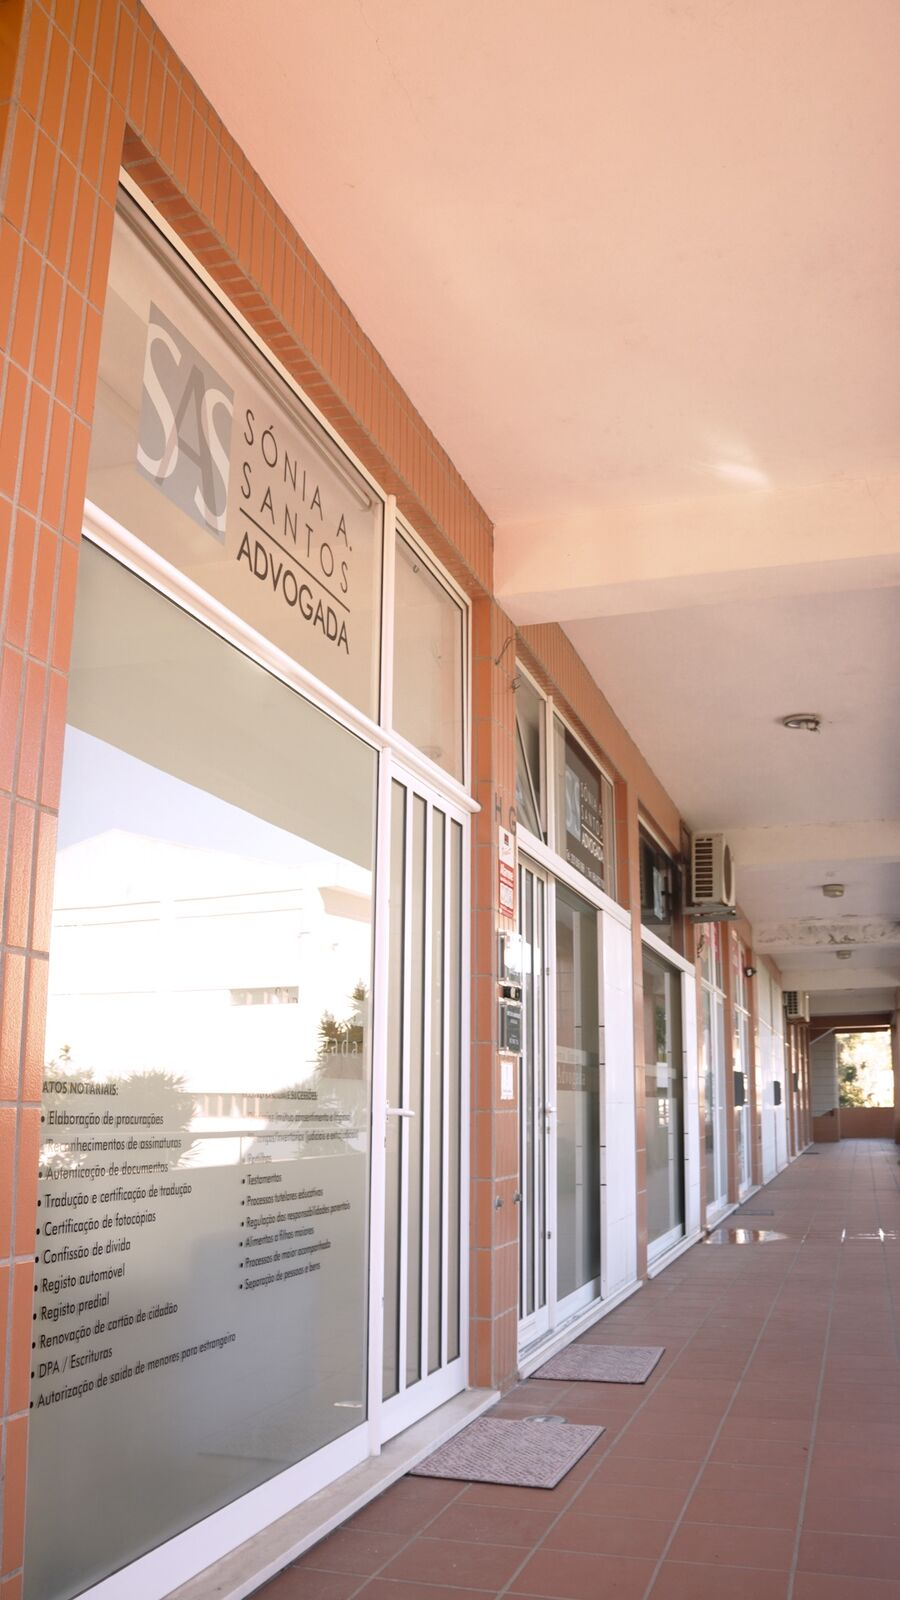
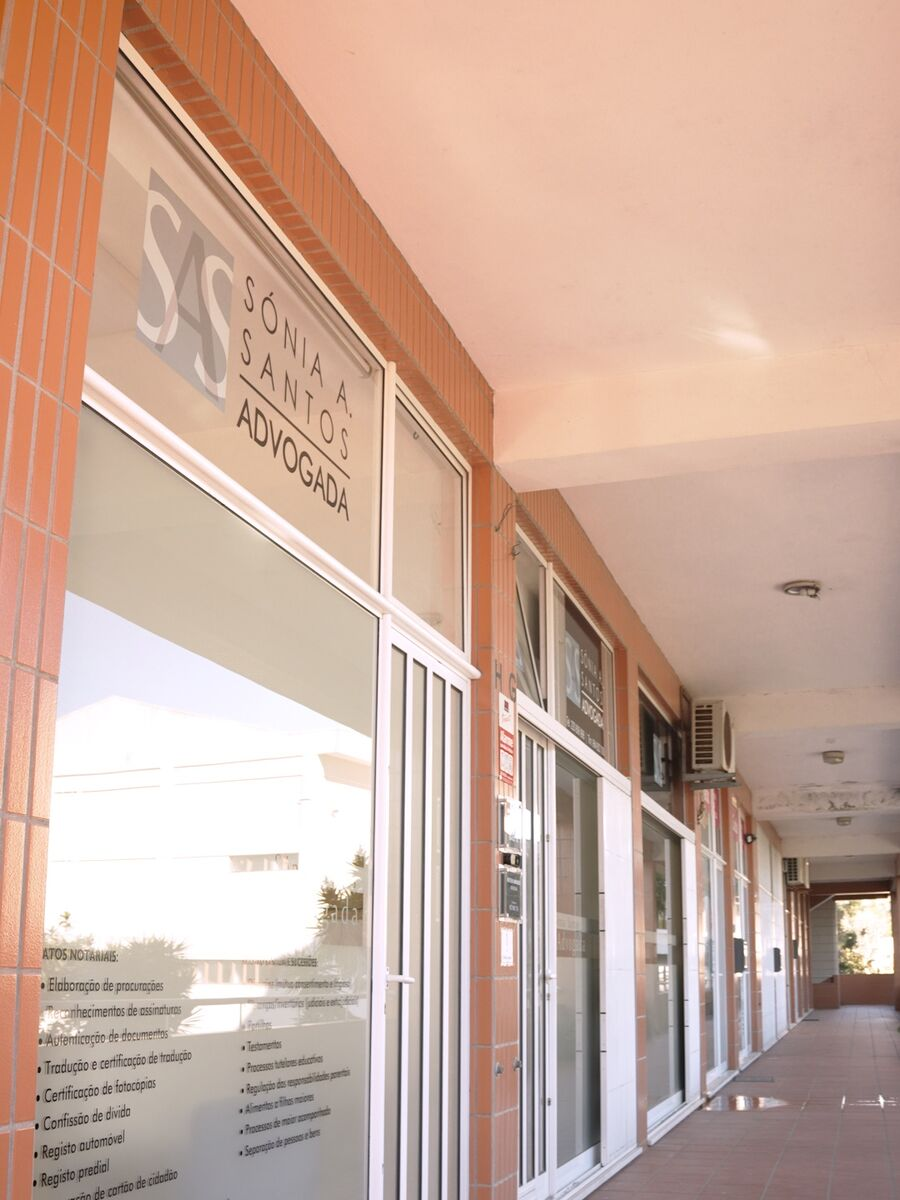
Galeria do escritório horizontal e dinâmica com novas fotos
- Computador: texto fixo e fotos a deslizar na horizontal com o scroll (GSAP pin)
- Telemóvel: carrossel com deslize e encaixe
- Fotos: fachada, gabinete e receção; legendas numeradas e botão 'Como chegar'

Claude-Session: https://claude.ai/code/session_01Ro4XVLwoq6dQxs5ZSBP7QT

diff --git a/styles.css b/styles.css
@@ -342,11 +342,39 @@ blockquote {
 .membro h3 { font-size: 1.25rem; margin: 0 0 2px; }
 .membro p { font-size: .7rem; letter-spacing: .2em; text-transform: uppercase; color: var(--suave); font-weight: 500; margin: 0; }
 
-/* Escritório */
-.galeria { display: grid; grid-template-columns: repeat(3, 1fr); gap: 18px; max-width: 960px; margin-inline: auto; }
-.galeria figure { margin: 0; overflow: hidden; border-radius: var(--raio); aspect-ratio: 4 / 5; max-width: 100%; }
-.galeria img { width: 100%; height: 108%; object-fit: cover; object-position: center 40%; transition: transform 1.2s var(--ease); }
-.galeria figure:hover img { transform: scale(1.05); }
+/* Escritório: texto fixo à esquerda, fotos a deslizar na horizontal */
+.escritorio { padding: 0; overflow: hidden; }
+.escritorio__pin { height: 100svh; min-height: 640px; display: flex; align-items: center; gap: clamp(30px, 4vw, 60px); }
+.galeria__intro { flex: none; width: min(360px, 32%); position: relative; z-index: 2; }
+.galeria__intro h2 { margin-bottom: .4em; }
+.galeria__local { font-size: .78rem; letter-spacing: .2em; text-transform: uppercase; color: var(--suave); margin-bottom: 1.6em; }
+.galeria__dica { display: flex; align-items: center; gap: 12px; margin-top: 34px; font-size: .7rem; letter-spacing: .22em; text-transform: uppercase; color: var(--acento); }
+.galeria__dica i { position: relative; width: 46px; height: 1px; background: var(--linha); overflow: hidden; }
+.galeria__dica i::after { content: ""; position: absolute; inset: 0; background: var(--acento); animation: dica 2s var(--ease) infinite; }
+@keyframes dica { from { transform: translateX(-100%); } to { transform: translateX(100%); } }
+.galeria__janela { flex: 1; min-width: 0; margin-right: calc(-1 * max(16px, (100vw - 1180px) / 2)); overflow: hidden;
+  -webkit-mask-image: linear-gradient(90deg, transparent 0, #000 60px); mask-image: linear-gradient(90deg, transparent 0, #000 60px); }
+.galeria__trilho { display: flex; align-items: center; gap: clamp(18px, 2.4vw, 32px); width: max-content; padding: 0 max(16px, calc((100vw - 1180px) / 2)) 0 60px; will-change: transform; }
+.g { position: relative; flex: none; margin: 0; height: min(70svh, 620px); overflow: hidden; border-radius: var(--raio); background: var(--fundo-2); }
+.g--alto { aspect-ratio: 3 / 4; }
+.g--largo { aspect-ratio: 5 / 4; }
+.g img { width: 100%; height: 100%; object-fit: cover; transform: scale(1.1); transition: transform 1.4s var(--ease); }
+.g:hover img { transform: scale(1.03); }
+.g::after { content: ""; position: absolute; inset: 0; background: linear-gradient(0deg, rgba(47, 37, 30, .62), transparent 38%); pointer-events: none; }
+.g figcaption { position: absolute; z-index: 1; left: 24px; right: 24px; bottom: 22px; display: flex; align-items: baseline; gap: 14px; color: #fff; }
+.g__num { font: 400 .8rem var(--sans); letter-spacing: .2em; color: var(--acento-claro); }
+.g figcaption b { font: 400 clamp(1.3rem, 2vw, 1.7rem) var(--serif); }
+@media (max-width: 960px) {
+  .escritorio { padding: 72px 0; }
+  .escritorio__pin { height: auto; min-height: 0; display: block; }
+  .galeria__intro { width: auto; margin-bottom: 30px; }
+  .galeria__janela { margin: 0 -16px; overflow-x: auto; scroll-snap-type: x mandatory; scrollbar-width: none; -webkit-mask-image: none; mask-image: none; }
+  .galeria__janela::-webkit-scrollbar { display: none; }
+  .galeria__trilho { padding: 0 16px; }
+  .g { height: auto; width: 74vw; scroll-snap-align: center; }
+  .g--largo { width: 86vw; aspect-ratio: 4 / 3; }
+}
+@media (min-width: 961px) { .galeria__dica { display: none; } }
 
 /* FAQ */
 .faq__grid { display: grid; grid-template-columns: .8fr 1.2fr; gap: clamp(40px, 7vw, 110px); align-items: start; }

diff --git a/i18n.js b/i18n.js
@@ -83,7 +83,12 @@ window.TRADUCOES = {
     'sobre.f1': 'years of practice<br>since 2005',
     'a3.etq': 'Businesses &amp; prevention',
     'a3.titulo': 'Preventive and corporate law',
-    'a3.desc': 'Legal support for businesses and individuals with a focus on prevention: analysing, advising and anticipating risks before they turn into conflicts.'
+    'a3.desc': 'Legal support for businesses and individuals with a focus on prevention: analysing, advising and anticipating risks before they turn into conflicts.',
+    'esc.mapa': 'Get directions',
+    'esc.dica': 'Swipe to see',
+    'esc.c1': 'The office',
+    'esc.c2': 'The consulting room',
+    'esc.c3': 'Reception'
   },
 
   fr: {
@@ -160,7 +165,12 @@ window.TRADUCOES = {
     'sobre.f1': 'ans d’exercice<br>depuis 2005',
     'a3.etq': 'Entreprises &amp; prévention',
     'a3.titulo': 'Droit préventif et droit des affaires',
-    'a3.desc': 'Un accompagnement juridique des entreprises et des particuliers axé sur la prévention : analyser, conseiller et anticiper les risques avant qu’ils ne deviennent des conflits.'
+    'a3.desc': 'Un accompagnement juridique des entreprises et des particuliers axé sur la prévention : analyser, conseiller et anticiper les risques avant qu’ils ne deviennent des conflits.',
+    'esc.mapa': 'Itinéraire',
+    'esc.dica': 'Faites glisser',
+    'esc.c1': 'Le cabinet',
+    'esc.c2': 'Le bureau',
+    'esc.c3': 'L’accueil'
   },
 
   de: {
@@ -237,7 +247,12 @@ window.TRADUCOES = {
     'sobre.f1': 'Jahre Berufserfahrung<br>seit 2005',
     'a3.etq': 'Unternehmen &amp; Prävention',
     'a3.titulo': 'Präventive Rechtsberatung und Unternehmensrecht',
-    'a3.desc': 'Rechtliche Begleitung für Unternehmen und Privatpersonen mit Schwerpunkt auf Prävention: analysieren, beraten und Risiken vorwegnehmen, bevor Konflikte entstehen.'
+    'a3.desc': 'Rechtliche Begleitung für Unternehmen und Privatpersonen mit Schwerpunkt auf Prävention: analysieren, beraten und Risiken vorwegnehmen, bevor Konflikte entstehen.',
+    'esc.mapa': 'Route planen',
+    'esc.dica': 'Zum Ansehen wischen',
+    'esc.c1': 'Die Kanzlei',
+    'esc.c2': 'Das Büro',
+    'esc.c3': 'Der Empfang'
   },
 
   it: {
@@ -314,6 +329,11 @@ window.TRADUCOES = {
     'sobre.f1': 'anni di professione<br>dal 2005',
     'a3.etq': 'Imprese &amp; prevenzione',
     'a3.titulo': 'Avvocatura preventiva e d’impresa',
-    'a3.desc': 'Assistenza legale a imprese e privati con un’attenzione alla prevenzione: analizzare, consigliare e anticipare i rischi prima che diventino conflitti.'
+    'a3.desc': 'Assistenza legale a imprese e privati con un’attenzione alla prevenzione: analizzare, consigliare e anticipare i rischi prima che diventino conflitti.',
+    'esc.mapa': 'Come arrivare',
+    'esc.dica': 'Scorri per vedere',
+    'esc.c1': 'Lo studio',
+    'esc.c2': 'L’ufficio',
+    'esc.c3': 'L’accoglienza'
   }
 };

diff --git a/index.html b/index.html
@@ -301,17 +301,31 @@
       </div>
     </section>
 
-    <!-- ESCRITÓRIO -->
+    <!-- ESCRITÓRIO: galeria horizontal (desliza com o scroll no computador, com o dedo no telemóvel) -->
     <section class="escritorio" id="escritorio">
-      <div class="wrap">
-        <div class="secao__cabecalho">
-          <p class="eyebrow" data-reveal data-i18n="esc.eyebrow">O escritório</p>
-          <h2 data-reveal data-i18n="esc.titulo">Um espaço pensado para <em class="ouro-texto">o receber</em></h2>
+      <div class="escritorio__pin wrap">
+          <div class="galeria__intro">
+            <p class="eyebrow" data-i18n="esc.eyebrow">O escritório</p>
+            <h2 data-i18n="esc.titulo">Um espaço pensado para <em class="ouro-texto">o receber</em></h2>
+            <p class="galeria__local">Mozelos · Santa Maria da Feira</p>
+            <a class="btn btn--linha" href="https://www.google.com/maps/search/?api=1&amp;query=S%C3%B3nia+Alexandra+Santos+Advogada+Mozelos+Santa+Maria+da+Feira" target="_blank" rel="noopener"><span data-i18n="esc.mapa">Como chegar</span></a>
+            <span class="galeria__dica" aria-hidden="true"><i></i><span data-i18n="esc.dica">Deslize para ver</span></span>
+          </div>
+        <div class="galeria__janela">
+        <div class="galeria__trilho">
+          <figure class="g g--alto">
+            <img src="img/escritorio-fachada.jpg" alt="Fachada do escritório Sónia Alexandra Santos, Advogada" loading="lazy" width="900" height="1200">
+            <figcaption><span class="g__num">01</span><b data-i18n="esc.c1">O escritório</b></figcaption>
+          </figure>
+          <figure class="g g--largo">
+            <img src="img/gabinete-largo.jpg" alt="Dra. Sónia Alexandra Santos no gabinete" loading="lazy" width="1400" height="1115">
+            <figcaption><span class="g__num">02</span><b data-i18n="esc.c2">O gabinete</b></figcaption>
+          </figure>
+          <figure class="g g--alto">
+            <img src="img/entrada.jpg" alt="Dra. Sónia Alexandra Santos a receber clientes à entrada" loading="lazy" width="900" height="1200">
+            <figcaption><span class="g__num">03</span><b data-i18n="esc.c3">A receção</b></figcaption>
+          </figure>
         </div>
-        <div class="galeria">
-          <figure data-reveal><img src="img/escritorio-fachada.jpg" alt="Escritório Sónia Alexandra Santos, Advogada" loading="lazy" width="900" height="1600"></figure>
-          <figure data-reveal><img src="img/gabinete.jpg" alt="Gabinete da Dra. Sónia Alexandra Santos" loading="lazy" width="900" height="1600"></figure>
-          <figure data-reveal><img src="img/servicos-montra.jpg" alt="Montra do escritório com a lista de serviços" loading="lazy" width="900" height="1600"></figure>
         </div>
       </div>
     </section>

diff --git a/app.js b/app.js
@@ -216,6 +216,20 @@ if (window.gsap && window.ScrollTrigger && !calmo) {
     const s = i % 2 ? 1 : -1;
     gsap.fromTo(img, { yPercent: -4 * s }, { yPercent: 4 * s, ease: 'none', scrollTrigger: { trigger: img.parentElement, scrub: true } });
   });
+  // Galeria do escritório: desliza na horizontal enquanto se faz scroll (só em ecrãs largos)
+  ScrollTrigger.matchMedia({
+    '(min-width: 961px)': () => {
+      const trilho = document.querySelector('.galeria__trilho');
+      const janela = document.querySelector('.galeria__janela');
+      const distancia = () => Math.max(0, trilho.scrollWidth - janela.clientWidth);
+      const mov = gsap.to(trilho, { x: () => -distancia(), ease: 'none',
+        scrollTrigger: { trigger: '.escritorio', pin: '.escritorio__pin', start: 'top top', end: () => '+=' + distancia() * 1.2, scrub: 1, invalidateOnRefresh: true } });
+      gsap.utils.toArray('.g img').forEach(img => {
+        gsap.fromTo(img, { xPercent: 6 }, { xPercent: -6, ease: 'none',
+          scrollTrigger: { trigger: img.parentElement, containerAnimation: mov, start: 'left right', end: 'right left', scrub: true } });
+      });
+    }
+  });
   gsap.from('.passos__linha span', { scaleX: 0, ease: 'none', scrollTrigger: { trigger: '.passos', start: 'top 75%', end: 'bottom 60%', scrub: true } });
 }
 
